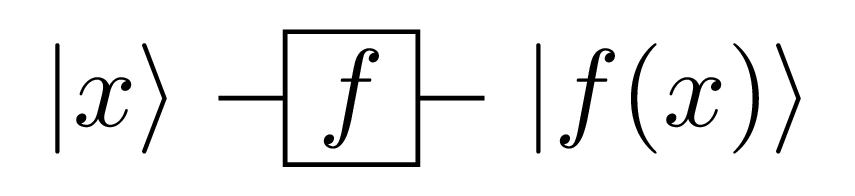
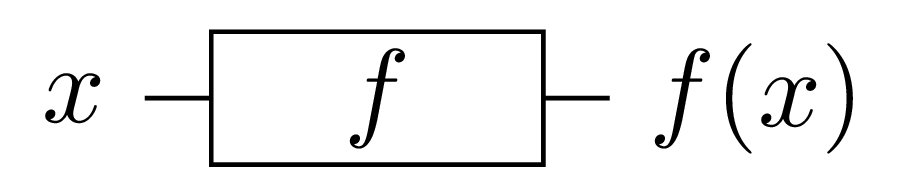
Added a picture of the quantum oracle.

diff --git a/source/algorithms/deutsch.rst b/source/algorithms/deutsch.rst
@@ -74,13 +74,13 @@ make our decision of whether we have a balanced or a constant oracle.
 
 We can visualize the classical algorithm running as shown below.
 
-.. _classical_solution:
+.. _classical_oracle:
 .. figure:: /_diagrams/deutsch/classical.png
     :scale: 40%
     :align: center
-    :alt: Classical solution to Deutsch problem
+    :alt: Classical oracle for Deutsch problem
 
-    Classical algorithm executing the oracle :math:`f`.
+    Classical oracle executing the function :math:`f`.
 
 
 So how many times exactly do we need to call the oracle here?
@@ -141,7 +141,7 @@ our objective to construct the oracles, you are not supposed to peek into them a
 So we are going to focus on the algorithm itself.
 
 To get started, we need to transform the way the classical oracle is called into a flow
-the quantum algorithm can work with. We can't use the flow in :numref:`classical_solution`
+the quantum algorithm can work with. We can't use the flow in :numref:`classical_oracle`
 because it is not reversible. So we need to build an equivalent flow that has the same
 effect but runnable on a quantum computer.
 
@@ -150,32 +150,42 @@ To make our oracles reversible, we use the following scheme, dubbing it *XOR enc
 .. admonition:: XOR encoding of boolean functions
     
     | Let :math:`f(x_1, x_2, \ldots, x_n):\mathbb{B}^n \to \mathbb{B}` be a boolean function.  
-    | Define :math:`F(x_1, x_2, \ldots, x_n, y):\mathbb{B}^{n+1} \to \mathbb{B}` as :math:`F(x_1, x_2, \ldots, x_n, y) = (x_1, x_2, \ldots, x_n, y \oplus f(x_1, x_2, \ldots, x_n))`.
-    | The function :math:`F:\mathbb{B}^{n+1} \to \mathbb{B}` is the XOR encoding of :math:`f:\mathbb{B}^n \to \mathbb{B}` and is equivalent to it up to the ancilla :math:`y`.
+    | Define :math:`U_f(x_1, x_2, \ldots, x_n, y):\mathbb{B}^{n+1} \to \mathbb{B}` as :math:`U_f(x_1, x_2, \ldots, x_n, y) = (x_1, x_2, \ldots, x_n, y \oplus f(x_1, x_2, \ldots, x_n))`.
+    | The function :math:`U_f:\mathbb{B}^{n+1} \to \mathbb{B}` is the XOR encoding of :math:`f:\mathbb{B}^n \to \mathbb{B}` and is equivalent to it up to the ancilla :math:`y`.
 
 
 So we have transformed our classical function into a new function that is equivalent to it but with additional properties:
 
-* The function :math:`F:\mathbb{B}^{n+1} \to \mathbb{B}` is reversible.
+* The function :math:`U_f:\mathbb{B}^{n+1} \to \mathbb{B}` is reversible.
 * The original function :math:`f(x_1, x_2, \ldots, x_n):\mathbb{B}^n \to \mathbb{B}` can be recovered by taking :math:`z \oplus f(x_1, x_2, \ldots, x_n) \oplus z`.
 
-The two properties above of the function :math:`F:\mathbb{B}^{n+1} \to \mathbb{B}` mean
+The two properties above of the function :math:`U_f:\mathbb{B}^{n+1} \to \mathbb{B}` mean
 that it is executable on a quantum computer and from the answer it provides we are able
 to recover the original answer the classical function would have given.
 
-As mentioned above, we won't see how to build oracles from :math:`F:\mathbb{B}^{n+1} \to \mathbb{B}`
+As mentioned above, we won't see how to build oracles from :math:`U_f:\mathbb{B}^{n+1} \to \mathbb{B}`
 but it is a good exercise if you want to try it. Neither are we going to actually find the output.
 We are going to do the following though:
 
-* See how to use the oracles from :math:`F:\mathbb{B}^{n+1} \to \mathbb{B}` in the algorithm.
+* See how to use the oracles from :math:`U_f:\mathbb{B}^{n+1} \to \mathbb{B}` in the algorithm.
 * Understand how the algorithm solves Deutsch's problem.
 
 To begin, we are going to simplify the XOR encoding and limit :math:`f(x_1, x_2, \ldots, x_n):\mathbb{B}^n \to \mathbb{B}` to :math:`f(x):\mathbb{B}^n \to \mathbb{B}`.
-This means that its encoding is given by :math:`F(x, y):\mathbb{B}^{2} \to \mathbb{B}`.
+This means that its encoding is given by :math:`U_f(x, y):\mathbb{B}^{2} \to \mathbb{B}`.
 
-Then, we are going to shift to the bracket notation in order to simplify calculations and make :math:`F(x, y):\mathbb{B}^{2} \to \mathbb{B}` equivalent to :math:`|x, y\rangle`.
-For our satisfaction, let us show that :math:`|x, y\rangle` is both reversible and :math:`f(x)` can be recovered from it.
+Then, we are going to shift to the bracket notation in order to simplify calculations and make :math:`U_f(x, y):\mathbb{B}^{2} \to \mathbb{B}` accept inputs of the form :math:`|x, y\rangle`.
+For our satisfaction, let us show that :math:`U_f(x, y):\mathbb{B}^{2} \to \mathbb{B}` is both reversible and :math:`f(x)` can be recovered from it.
 
-Let us first look at a circuit similar to the one in :numref:`classical_solution`.
+Let us first look at a circuit similar to the one in :numref:`classical_oracle`.
 
+.. _quantum_oracle:
+.. figure:: /_diagrams/deutsch/quantum.png
+    :scale: 40%
+    :align: center
+    :alt: Quantum oracle for Deutsch problem
+
+    Quantum algorithm executing the function :math:`f` using its encoding :math:`U_f(x, y)=|x,y\rangle`.
+
+
+The oracle is given a two bits in the form :math:`|x, y\rangle` and produces two outputs of the form :math:`|x, y \oplus f(x)\rangle`
 
